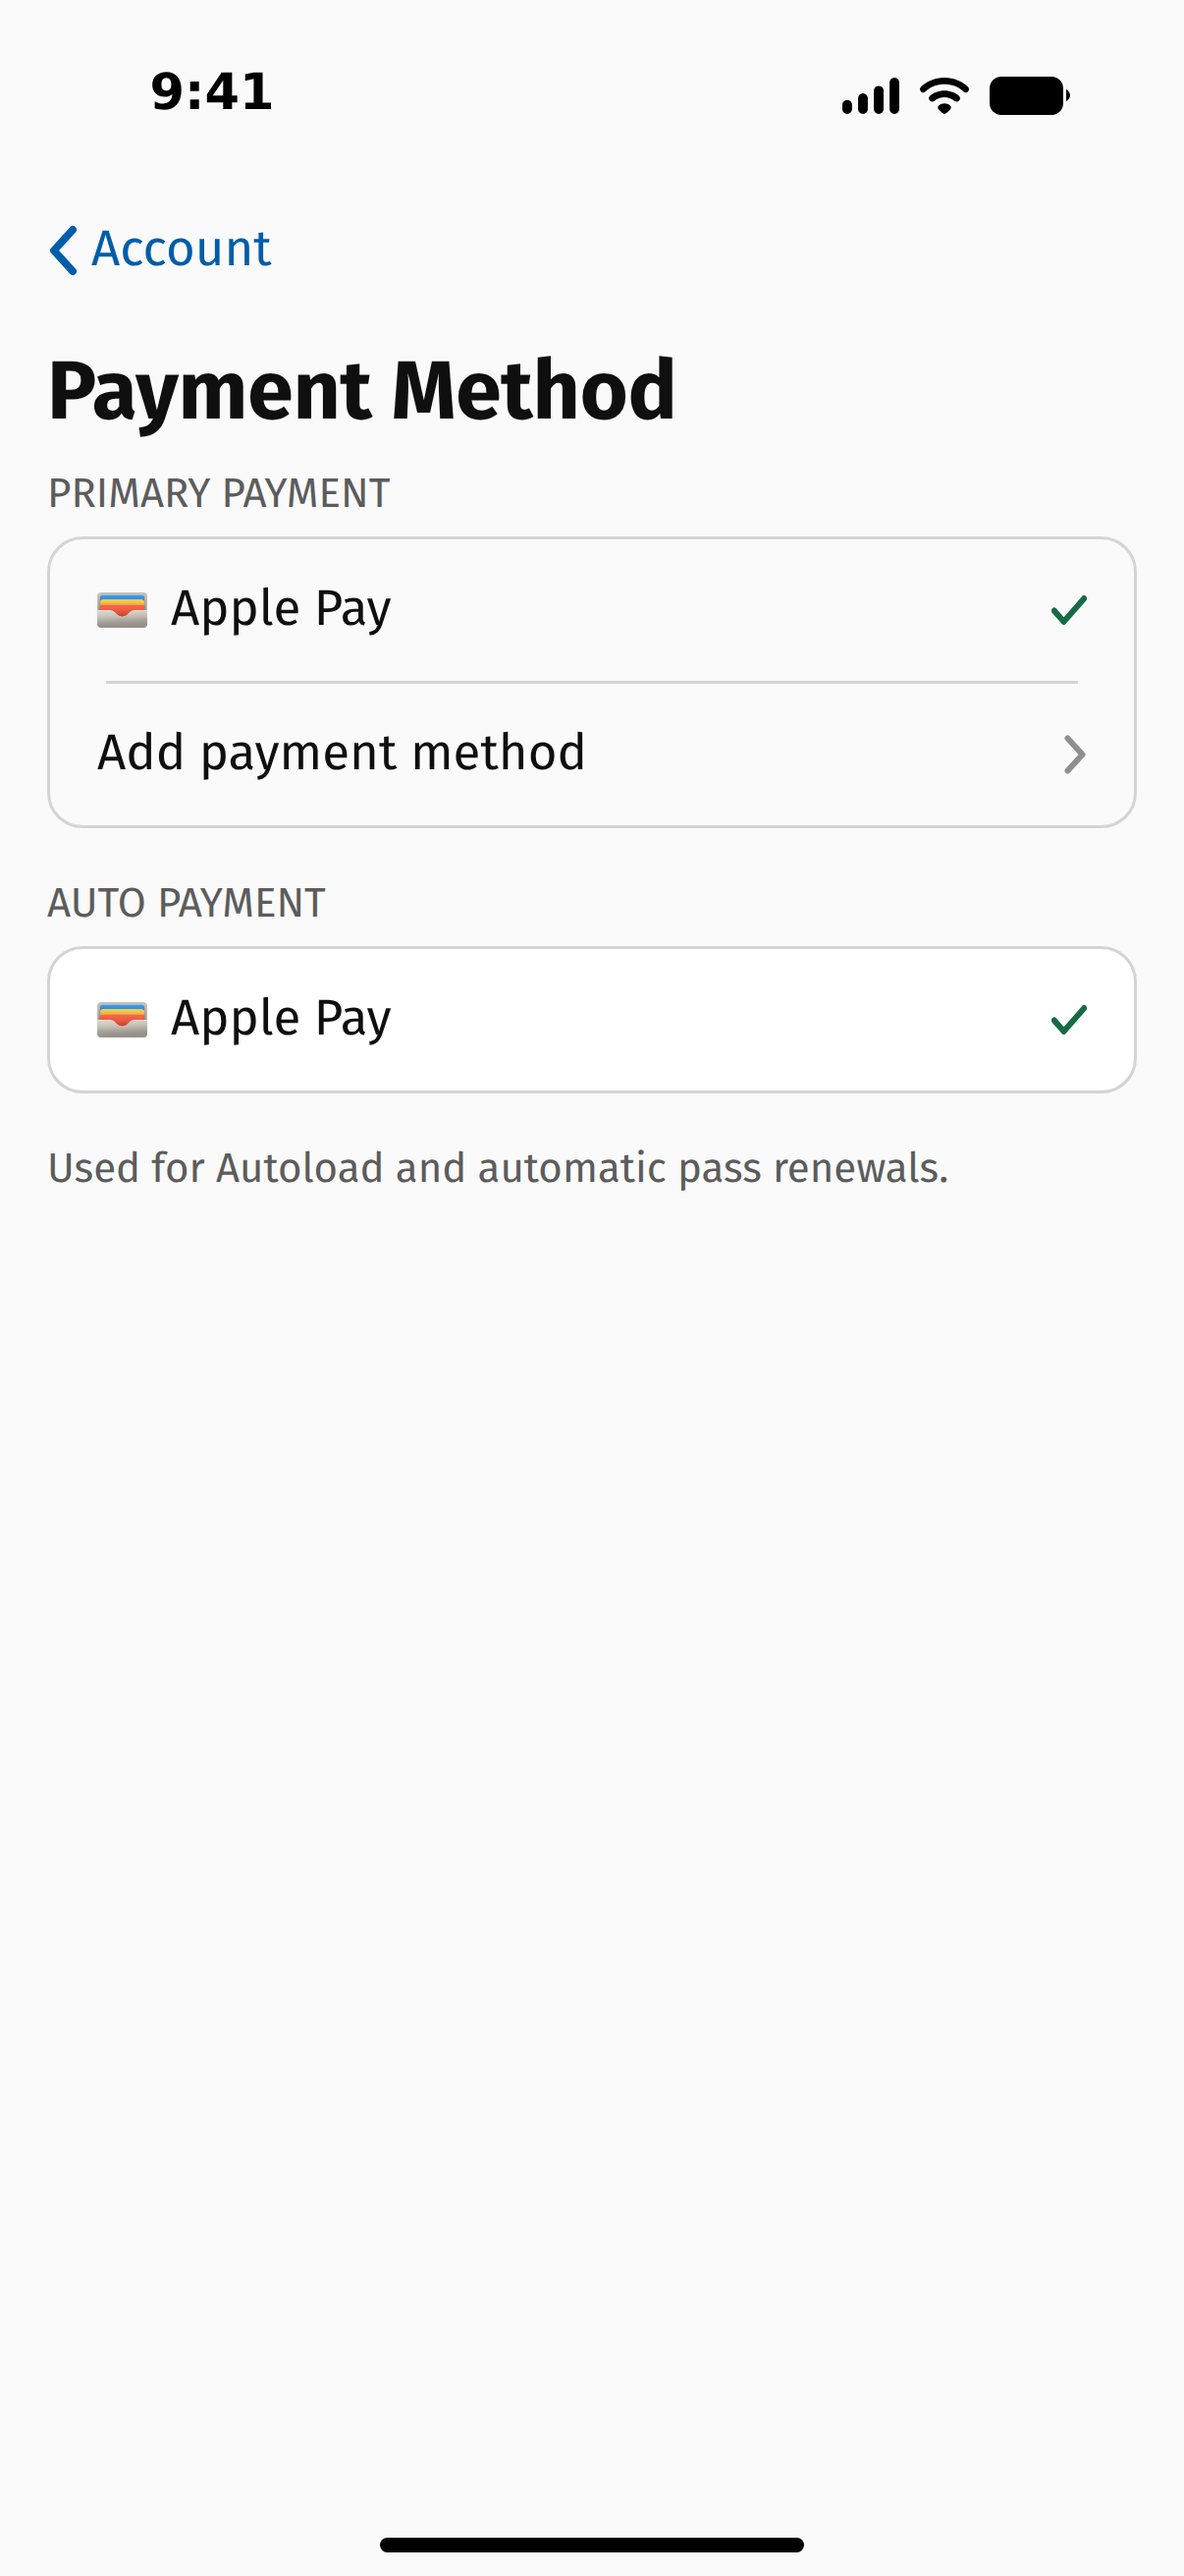
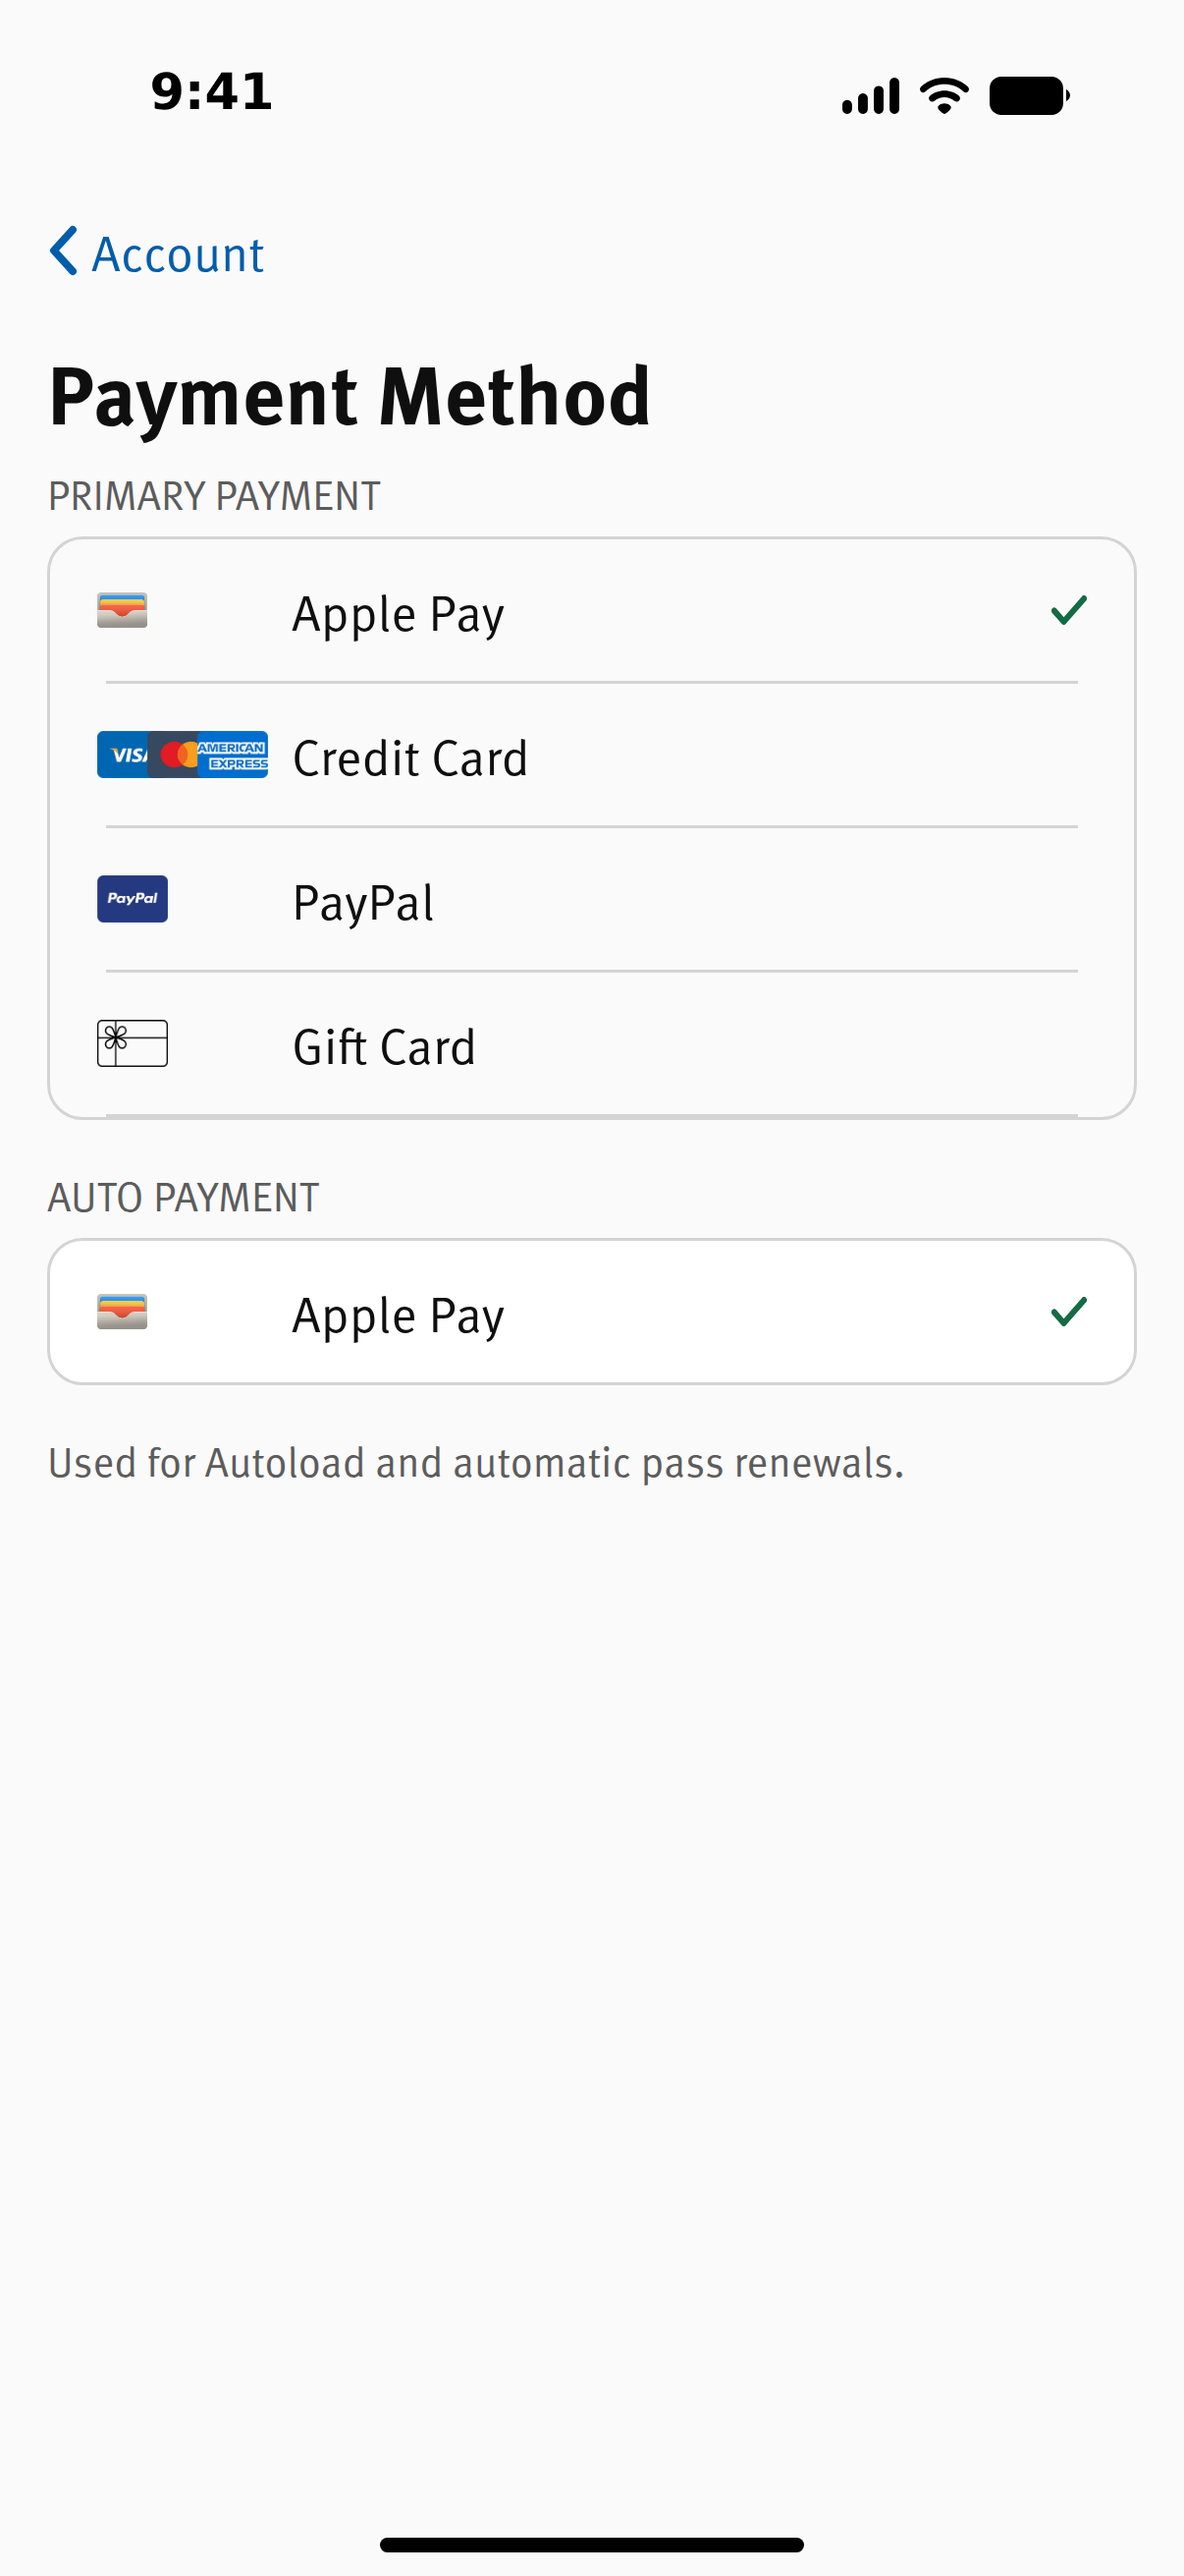
capture: the payment screen, reshot for four methods
The screen went from one method to four, each carrying its own mark, so
the record shot of it stopped matching the app. Reshot under the same
conditions as the rest of the set — 402x874 at scale 3, the clock pinned
to 9:41, transitions stopped — and noted in the mapping why this one cut
is set in real FF Meta while the other thirty-eight are not.

diff --git a/site/public/media/compass-card/MAPPING.md b/site/public/media/compass-card/MAPPING.md
@@ -9,6 +9,7 @@
 - 애니메이션/트랜지션 전부 정지 (`reducedMotion: "reduce"` + CSS kill)
 - 폰트: **Fira Sans 대체**. 이 샌드박스에서 `use.typekit.net` 이 차단되어 FF Meta 를 받을 수 없습니다.
   하진님 로컬에서 `REAL_FONT=1 node capture.js` 로 돌리면 **동일 스크립트가 진짜 FF Meta 로** 재출력됩니다.
+  → **예외: `26-payment` 한 장만 진짜 FF Meta** 입니다 (아래 재촬영 항목 참조).
 - 스크립트: `capture.js` — **39 컷, 실패 0, 회귀 감지 0**
 - 촬영 중 자동 검사(`assertFixed`): `.tap-dismiss` UA 크롬 없음 / `.tap-mark--declined` 가 빨강(#c0362c) /
   `.tile-gold` 가 잉크 토큰(#8f6700) — 세 항목 모두 해당 화면마다 통과
@@ -52,6 +53,27 @@
 3. **`compass-shot-passes-02` 의 소스가 `02-card` → `35-passes-paid` 로 이동** (위 표 참조).
 4. `25-account` 에서 하단 버튼 블록이 사라지고 환불이 `CARD` 섹션의 평범한 한 줄이 됐습니다 (A-5).
 5. `26-payment` 이 `PRIMARY PAYMENT` → `AUTO PAYMENT` 순서로 바뀌고 `NOTIFICATION` 섹션이 없어졌습니다 (B-2).
+
+---
+
+## `26-payment` 재촬영 (CompassCard `8f47b92` 기준)
+
+결제수단이 Apple Pay 한 줄에서 **Apple Pay / Credit Card / PayPal / Gift Card 네 줄**로 늘고
+각 줄이 자기 마크를 달게 되면서, 38장 중 이 한 장만 화면이 바뀌었습니다. 그래서 이 한 장만 다시 찍었습니다.
+
+- 조건은 나머지와 동일: 402 × 874 @ `deviceScaleFactor: 3` → **1206 × 2622**, 상태바 **9:41** 고정,
+  `reducedMotion: "reduce"` + CSS 로 트랜지션·애니메이션 정지.
+- **폰트만 다릅니다 — 이 장은 진짜 FF Meta.** 이 컨테이너에는 Adobe Fonts 키트의 로컬 미러가 있어
+  네트워크 없이도 FF Meta 가 로드됩니다. 반대로 나머지 38장이 쓴 Fira Sans 는 이 컨테이너에 없어
+  대체 글꼴을 흉내 낼 수도 없었습니다. 둘 중 하나를 골라야 했고, **앱이 실제로 쓰는 글꼴**을 골랐습니다.
+- 촬영 중 검사: 타이틀 `Payment Method` / 네 줄의 라벨과 순서 / 각 줄의 마크가 실제로 디코드됐는지
+  (`naturalWidth > 0`) / 깨진 이미지 0 / 상태바가 **촬영 뒤에도** 9:41 인지 — 전부 통과.
+- 이 컷은 `CompassCaptures.jsx` 에 등록돼 있지 않습니다. 페이지에 그려지는 17장이 아니라
+  **기록용 39장** 쪽이라, 사이트 화면은 이 교체로 달라지지 않습니다.
+
+**남은 결함 하나**: 네 수단이 전부 등록되면 `Add payment method` 줄이 사라지는데,
+마지막 줄(`Gift Card`) 아래의 구분선은 남아 패널 바닥에 실선 한 줄이 떠 있습니다. 캡처에도 그대로 보입니다.
+앱 쪽 수정이라 손대지 않았습니다.
 
 ---
 
